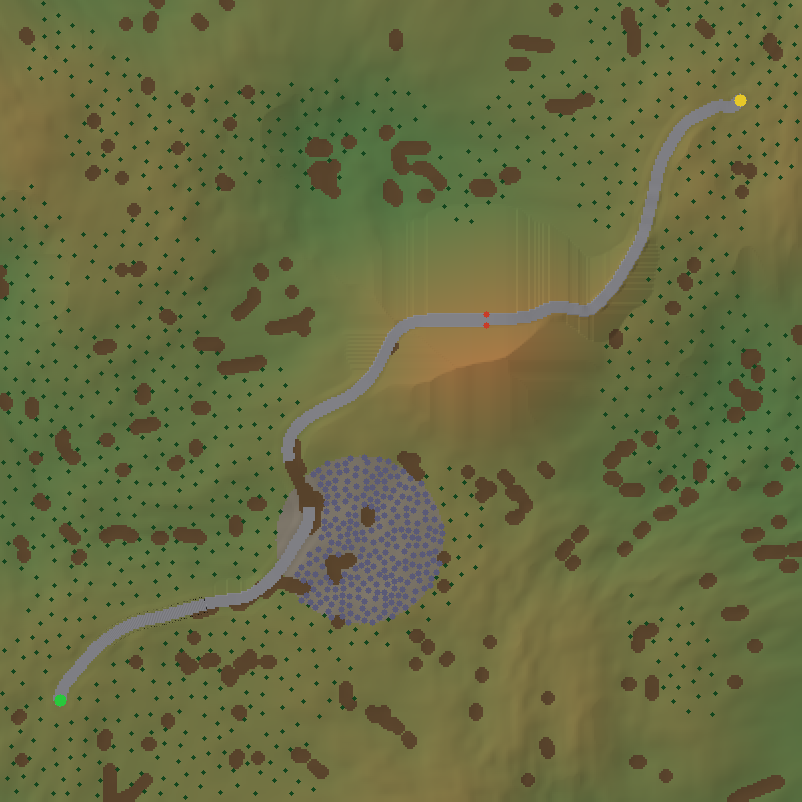
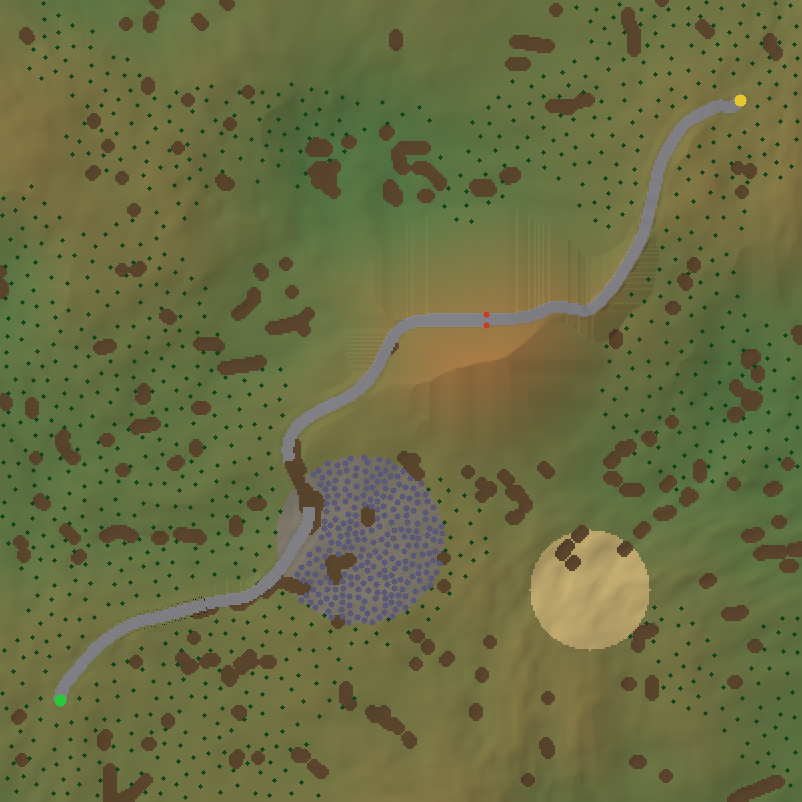
WORLD: soft-ground patches and a sand material (Bekker-Wong parameters, UNVALIDATED) (#72)
Adds a sand material with UNVALIDATED Bekker-Wong parameters, a SoftPatchDef course stage, and a sand bed on the slice course, with material and patch tests.

Golden-Change: the slice course hash (in-test constant) changed because the course gained the sand patch; updated in the same commit.

Claude-Session: https://claude.ai/code/session_01Kgk3FeWn659zUE4LrejiAe

Changed region(s): [[0.6546, 0.6546, 0.8105, 0.8105], [0.5299, 0.5923, 0.5611, 0.6234]]

diff --git a/crates/w5k_world/src/course.rs b/crates/w5k_world/src/course.rs
@@ -17,7 +17,7 @@ use crate::cliff::{switchback_path, CliffDef, SwitchbackDef};
 use crate::corrugation::{Corrugation, Ripple};
 use crate::features::{
     barricade_blocks, cell_slope, dilate, mud_mask, poisson_disc, poisson_disc_in, BarricadeDef, MudDef, RockFieldDef,
-    TreesDef,
+    SoftPatchDef, TreesDef,
 };
 use crate::grid::{warped_fbm, GridWorld, CELL_M};
 use crate::river::{carve, RiverDef};
@@ -113,6 +113,8 @@ pub struct CourseDef {
     pub barricade: Option<BarricadeDef>,
     #[serde(default)]
     pub rock_fields: Vec<RockFieldDef>,
+    #[serde(default)]
+    pub soft_patches: Vec<SoftPatchDef>,
     #[serde(default)]
     pub cliffs: Vec<CliffDef>,
     #[serde(default)]
@@ -768,6 +770,23 @@ pub fn generate(def: &CourseDef) -> Result<Course, String> {
             }
         }
     }
+    // Soft patches: sand or deep mud laid over plain ground (never over road, water or mud already there).
+    for (k, sp) in def.soft_patches.iter().enumerate() {
+        sp.radius_m.check(&format!("{}.soft_patches[{k}].radius_m", def.name))?;
+        let mat = materials.id_of(&sp.surface).ok_or_else(|| format!("unknown soft patch surface `{}`", sp.surface))?;
+        if materials.get(mat).soil.is_none() {
+            return Err(format!(
+                "{}.soft_patches[{k}]: `{}` has no soil parameters, so it is not soft ground",
+                def.name, sp.surface
+            ));
+        }
+        for (c, cell) in splat.iter_mut().enumerate() {
+            let (x, z) = xz(c % n, c / n);
+            if *cell == ground.0 as u8 && scalar::hypot(x - sp.x_m, z - sp.z_m) <= sp.radius_m.v {
+                *cell = mat.0 as u8;
+            }
+        }
+    }
     // Rock fields: the ground under a field becomes gravel (never over road or mud).
     for (k, r) in def.rock_fields.iter().enumerate() {
         for (l, p) in [
@@ -919,7 +938,7 @@ mod tests {
     const GOLDEN_CROSSING_HASH: u64 = 0x2f47_a346_14ba_26ea;
     const GOLDEN_RIVER_HASH: u64 = 0x33d8_29c2_7af5_f0f9;
     const GOLDEN_RIDGE_HASH: u64 = 0xb275_51a9_3685_9f48;
-    const GOLDEN_SLICE_HASH: u64 = 0xcf18_752c_43dd_a432;
+    const GOLDEN_SLICE_HASH: u64 = 0x1513_2fd9_e808_824a;
 
     fn hash(c: &Course) -> u64 {
         let mut s = StateHasher::new();
@@ -1757,5 +1776,39 @@ mod tests {
         let mut d = crossing();
         d.road.bridges[0].river = 3;
         assert!(generate(&d).err().expect("refused").contains("does not exist"));
+    }
+
+    #[test]
+    fn soft_patch_is_sand_inside_its_disc_only_and_never_on_the_road() {
+        let d = def();
+        let c = generate(&d).expect("course");
+        let sp = &d.soft_patches[0];
+        let (mut sand, mut inside) = (0, 0);
+        for k in 0..c.world.n() * c.world.n() {
+            let (i, j) = (k % c.world.n(), k / c.world.n());
+            let (x, z) = c.world.node_xz(i, j);
+            let is_sand =
+                c.world.materials().get(MaterialId(u16::from(c.world.splat_at_node(i, j)))).name == sp.surface;
+            let in_disc = scalar::hypot(x - sp.x_m, z - sp.z_m) <= sp.radius_m.v;
+            if is_sand {
+                sand += 1;
+                assert!(in_disc, "sand outside the patch at ({x}, {z})");
+                assert!(c.world.material_at(x, z).soil.is_some(), "sand carries soil parameters");
+            }
+            if in_disc {
+                inside += 1;
+            }
+        }
+        assert!(sand > inside / 2, "the patch should be mostly sand ({sand} of {inside} cells)");
+        for &(x, z, _) in &c.road {
+            assert_ne!(c.world.material_at(x, z).name, sp.surface, "sand on the road");
+        }
+    }
+
+    #[test]
+    fn a_soft_patch_of_hard_ground_is_refused() {
+        let mut d = def();
+        d.soft_patches[0].surface = "gravel".into();
+        assert!(generate(&d).err().expect("refused").contains("not soft ground"));
     }
 }

diff --git a/crates/w5k_world/src/strip.rs b/crates/w5k_world/src/strip.rs
@@ -295,7 +295,7 @@ mod tests {
         let again: StripDef = ron::from_str(&ron::to_string(&def).expect("serialise")).expect("re-parse");
         assert_eq!(def, again);
         assert!(DataStrip::bake(&def, standard_material_table().expect("table")).is_ok());
-        assert_eq!(standard_material_table().expect("table").materials.len(), 6);
+        assert_eq!(standard_material_table().expect("table").materials.len(), 7);
     }
 
     #[test]
@@ -313,5 +313,41 @@ mod tests {
         assert!((hit.distance_m - (5.0 - 0.2)).abs() < 1e-9);
         let slanted = w.raycast(Vec3::new(0.0, 1.0, -30.0), Vec3::new(0.0, -0.2, -1.0), 30.0).expect("hit");
         assert!((slanted.point.y - w.height_m(0.0, slanted.point.z)).abs() < 1e-9);
+    }
+
+    #[test]
+    fn material_ron_round_trips_and_every_param_checks() {
+        let defs: Vec<MaterialDef> =
+            ron::from_str(include_str!("../../../content/world/materials.ron")).expect("parse");
+        assert!(defs.len() >= 7);
+        for d in &defs {
+            assert!(d.bake().is_ok(), "{} must bake", d.name);
+            let again: MaterialDef = ron::from_str(&ron::to_string(d).expect("serialise")).expect("re-parse");
+            assert_eq!(*d, again, "{} round trip", d.name);
+        }
+    }
+
+    /// The union of the published classes of Bekker-Wong soil parameters (sands, loams, clays; Wong, Theory of Ground Vehicles, soil
+    /// parameter tables and the WES literature), widened to cover sources that disagree. UNVALIDATED until VALIDATION opens the table.
+    #[test]
+    fn soil_params_are_inside_their_published_bands() {
+        let table = standard_material_table().expect("table");
+        let mut soft = 0;
+        for m in &table.materials {
+            let Some(s) = m.soil else { continue };
+            soft += 1;
+            assert!((0.3..=1.5).contains(&s.n), "{}: sinkage exponent n {}", m.name, s.n);
+            assert!((1e2..=4e4).contains(&s.kc_pa_m_n1), "{}: kc {}", m.name, s.kc_pa_m_n1);
+            assert!((1e5..=5e6).contains(&s.kphi_pa_m_n), "{}: kphi {}", m.name, s.kphi_pa_m_n);
+            assert!((0.0..=7e4).contains(&s.cohesion_pa), "{}: cohesion {}", m.name, s.cohesion_pa);
+            assert!(
+                (5.0..=45.0).contains(&w5k_math::scalar::rad_to_deg(s.friction_angle_rad)),
+                "{}: friction angle",
+                m.name
+            );
+            assert!((0.003..=0.06).contains(&s.shear_k_m), "{}: shear modulus K {}", m.name, s.shear_k_m);
+            assert!(m.mu_peak <= 1.0 && m.mu_slide <= m.mu_peak, "{}: friction ordering", m.name);
+        }
+        assert!(soft >= 2, "at least mud and sand");
     }
 }

diff --git a/crates/w5k_tools/src/cmd/world.rs b/crates/w5k_tools/src/cmd/world.rs
@@ -19,6 +19,7 @@ const WATER_DEEP_RGB: [f64; 3] = [15.0, 40.0, 100.0]; // const-ok: display colou
 const WATER_DEPTH_FULL_M: f64 = 2.5; // const-ok: depth at which the water colour is darkest
 const PLANKS_RGB: [f64; 3] = [120.0, 90.0, 55.0]; // const-ok: display colour
 const TRACK_RGB: [u8; 3] = [200, 170, 110]; // const-ok: display colour of a track's centreline
+const SAND_RGB: [f64; 3] = [215.0, 190.0, 125.0]; // const-ok: display colour
 const MUD_RGB: [f64; 3] = [105.0, 80.0, 52.0]; // const-ok: display colour
 const GROUND_RGB: [f64; 3] = [95.0, 135.0, 78.0]; // const-ok: display colour
 const HEIGHT_TINT_PER_M: f64 = 5.0; // const-ok: display colour ramp
@@ -155,6 +156,7 @@ fn preview(args: &[String]) -> Result<(), String> {
                     "mud" => MUD_RGB,
                     "gravel" => GRAVEL_RGB,
                     "planks" => PLANKS_RGB,
+                    "sand" => SAND_RGB,
                     _ => [GROUND_RGB[0] + (w.height_m(x, z) - lo.y) * HEIGHT_TINT_PER_M, GROUND_RGB[1], GROUND_RGB[2]],
                 }
             };

diff --git a/crates/w5k_world/src/features.rs b/crates/w5k_world/src/features.rs
@@ -65,6 +65,18 @@ pub struct RockFieldDef {
     pub surface: String,
 }
 
+/// A disc of soft ground (sand, deep mud): the surface material changes, the shape of the ground does not. The soil law of the material
+/// (Bekker-Wong parameters in `content/world/materials.ron`) does the rest.
+#[derive(Clone, Debug, PartialEq, Serialize, Deserialize)]
+#[serde(deny_unknown_fields)]
+pub struct SoftPatchDef {
+    pub x_m: f64,
+    pub z_m: f64,
+    pub radius_m: Param,
+    /// Name of a soft material in the table.
+    pub surface: String,
+}
+
 /// Cells within `r_m` of any cell flagged in `mask` (a disc dilation).
 pub fn dilate(mask: &[bool], n: usize, r_m: f64) -> Vec<bool> {
     let r = (r_m / CELL_M).ceil() as i64;

diff --git a/docs/swarm/status/world.md b/docs/swarm/status/world.md
@@ -1,6 +1,6 @@
 # Status: WORLD
 
-**Last updated:** 2026-10-10 UTC | **Branch:** lane/world/bridges | **Contract pinned:** contract-v0.1 (commit f8f5e5d) | **Phase:** building
+**Last updated:** 2026-10-10 UTC | **Branch:** lane/world/soft | **Contract pinned:** contract-v0.1 (commit f8f5e5d) | **Phase:** building
 
 ## Done
 - PR 17 settling (merged): spike S-W, design note, CCR text. PR 21 data-driven bump strip (merged).
@@ -26,6 +26,8 @@
 - (3a) river + ford + water surface [`lane/world/river`, stacked on #65]: meandering channel in a levelled valley, trapezoid bed with a stated bank grade, flat water surface falling downstream, fords, `riverbed` material, `GridWorld::water_surface_m` (WORLD-only until CCR W-6), `terrain.json` gains `water_m`. Course `content/world/courses/river.ron`. (3b, next) bridges (wooden, road) and multi-road support (the long road bridge as a detour, a track to the wooden bridge). Amphibious crossing = swim the channel anywhere; the survey (later) will list depth and exit bank grade.
 
 - (3b) bridges + multi-road [`lane/world/bridges`, stacked on the river PR]: `plan_road` extracted (per-road width, grade, surface, mud crossings, rough sections; slice/ridge/river golden hashes unchanged by the refactor), `extra_roads`, `BridgeDef` (Wooden / Road, width, load rating as data, rails as `Wall` props), decks laid after the clamp, `Course.bridges`/`extra_roads`, `terrain.json` gains `bridges` and `extra_roads_m`. Course `content/world/courses/crossing.ron`: road bridge (west, long), wooden bridge on a track (mid, short, light-rated), ford (east), swim anywhere else. Next: (4) soft-ground patch, (5) `w5k world stats`, then the route survey.
+
+- (4) soft ground [`lane/world/soft`, stacked on #71]: `sand` material with Bekker-Wong soil parameters (dry-sand class, every number UNVALIDATED with bands; VALIDATION to verify the table and page), `SoftPatchDef` (a disc laid in any soft material, refused if the material has no soil), a sand patch on the slice course, and the brief's material tests (`material_ron_round_trips_and_every_param_checks`, `soil_params_are_inside_their_published_bands`).
 
 ## Blocked
 - Nothing.
